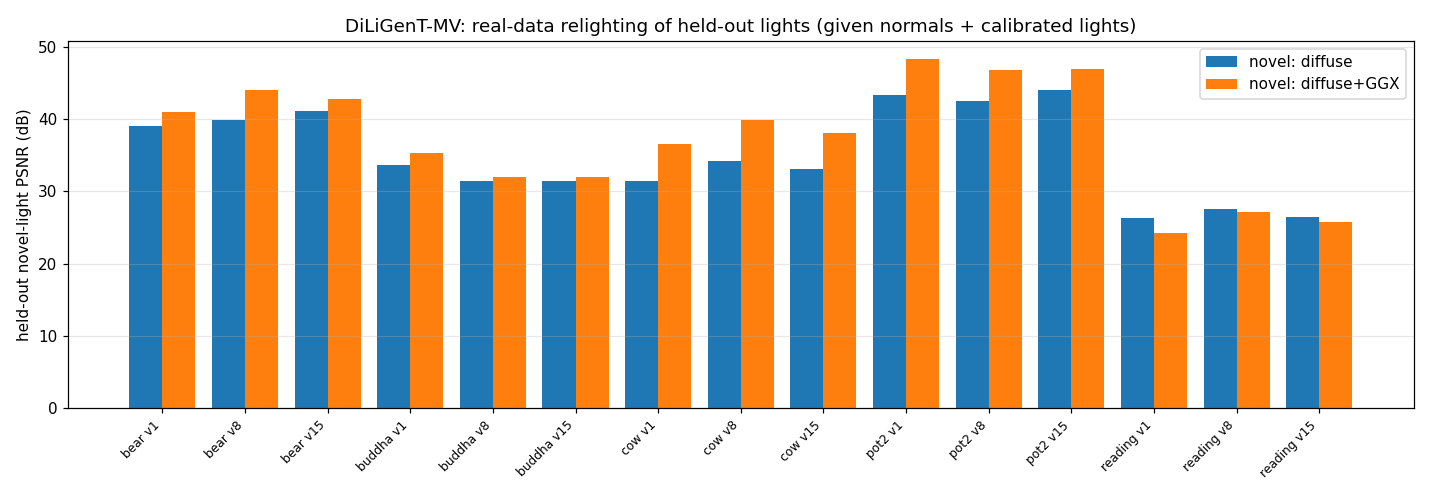
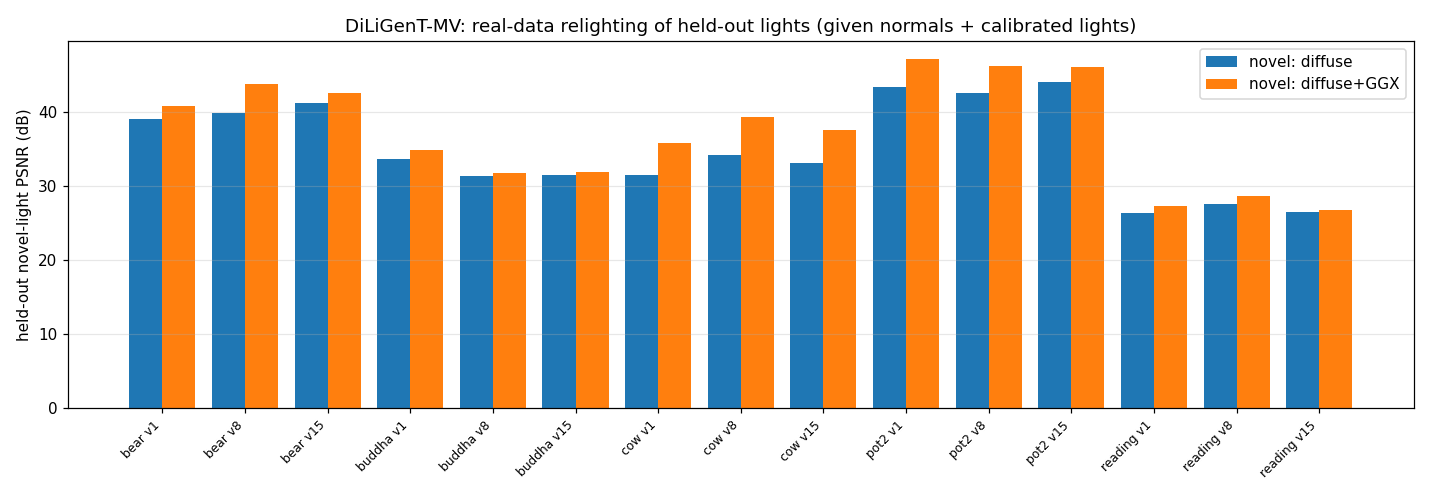
diligent-mv: edge-aware material reg (warm-start TV) fixes reading overfit; novel >= diffuse in all 15 runs, mean 37.4 dB

diff --git a/src/dmv_specular.py b/src/dmv_specular.py
@@ -58,12 +58,30 @@ def main():
     albedo = torch.nan_to_num(torch.nanmedian(ratios, dim=1).values)       # (P,3)
     del ratios
 
-    # ---- GGX residual fit: per-pixel ks, roughness ----
+    # ---- GGX residual fit: per-pixel ks, roughness + EDGE-AWARE smoothness ----
+    # (free per-pixel BRDF overfits on 'reading': train +2 dB but novel -2 dB. Material maps should
+    #  be smooth except at material edges -> edge-aware TV weighted by albedo gradients.)
     ks_raw = torch.full((P, 1), -3.0, device=DEV, requires_grad=True)
     ro_raw = torch.full((P, 1), -1.0, device=DEV, requires_grad=True)
     opt = torch.optim.Adam([ks_raw, ro_raw], lr=0.05)
     Ltr = torch.tensor([L - 1 for L in TRAIN], device=DEV)
     Otr = torch.stack([obs[L] for L in TRAIN], 1)                          # (P,T,3)
+
+    # neighbor pairs on the pixel grid (right + down), edge weights from albedo
+    pos = torch.full((mask.shape[0], mask.shape[1]), -1, dtype=torch.long, device=DEV)
+    pos[ys, xs] = torch.arange(P, device=DEV)
+    ys_t = torch.tensor(ys, device=DEV); xs_t = torch.tensor(xs, device=DEV)
+    pairs = []
+    for dy, dx in [(0, 1), (1, 0)]:
+        ny, nx = ys_t + dy, xs_t + dx
+        ok = (ny < mask.shape[0]) & (nx < mask.shape[1])
+        nb = pos[ny.clamp(max=mask.shape[0] - 1), nx.clamp(max=mask.shape[1] - 1)]
+        ok = ok & (nb >= 0)
+        pairs.append((torch.arange(P, device=DEV)[ok], nb[ok]))
+    REG = 0.01
+    with torch.no_grad():
+        ew = [torch.exp(-(albedo[a] - albedo[b]).abs().sum(-1, keepdim=True) / 0.1)
+              for a, b in pairs]                                          # smooth where albedo smooth
 
     def spec_for(idx):
         l = Ld[idx][None]                                                  # (1,T,3)
@@ -82,9 +100,13 @@ def main():
         return (ks * D * G * F / (4 * ndv + EPS)) * (ndl > 0).float()      # (P,T) white lobe
 
     diff_tr = albedo[:, None, :] * ndls[:, Ltr][..., None]
-    for it in range(400):
+    for it in range(1000):
         pred = diff_tr + spec_for(Ltr)[..., None]
         loss = (pred - Otr).abs().mean()
+        reg_w = 0.0 if it < 300 else REG                                   # warm start: fit free, then smooth
+        if reg_w > 0:
+            for (a, b), w in zip(pairs, ew):                               # edge-aware TV on material maps
+                loss = loss + reg_w * (w * ((ks_raw[a] - ks_raw[b]).abs() + (ro_raw[a] - ro_raw[b]).abs())).mean()
         opt.zero_grad(); loss.backward(); opt.step()
     with torch.no_grad():
         ks = torch.nn.functional.softplus(ks_raw); rough = torch.sigmoid(ro_raw) * 0.9 + 0.05
